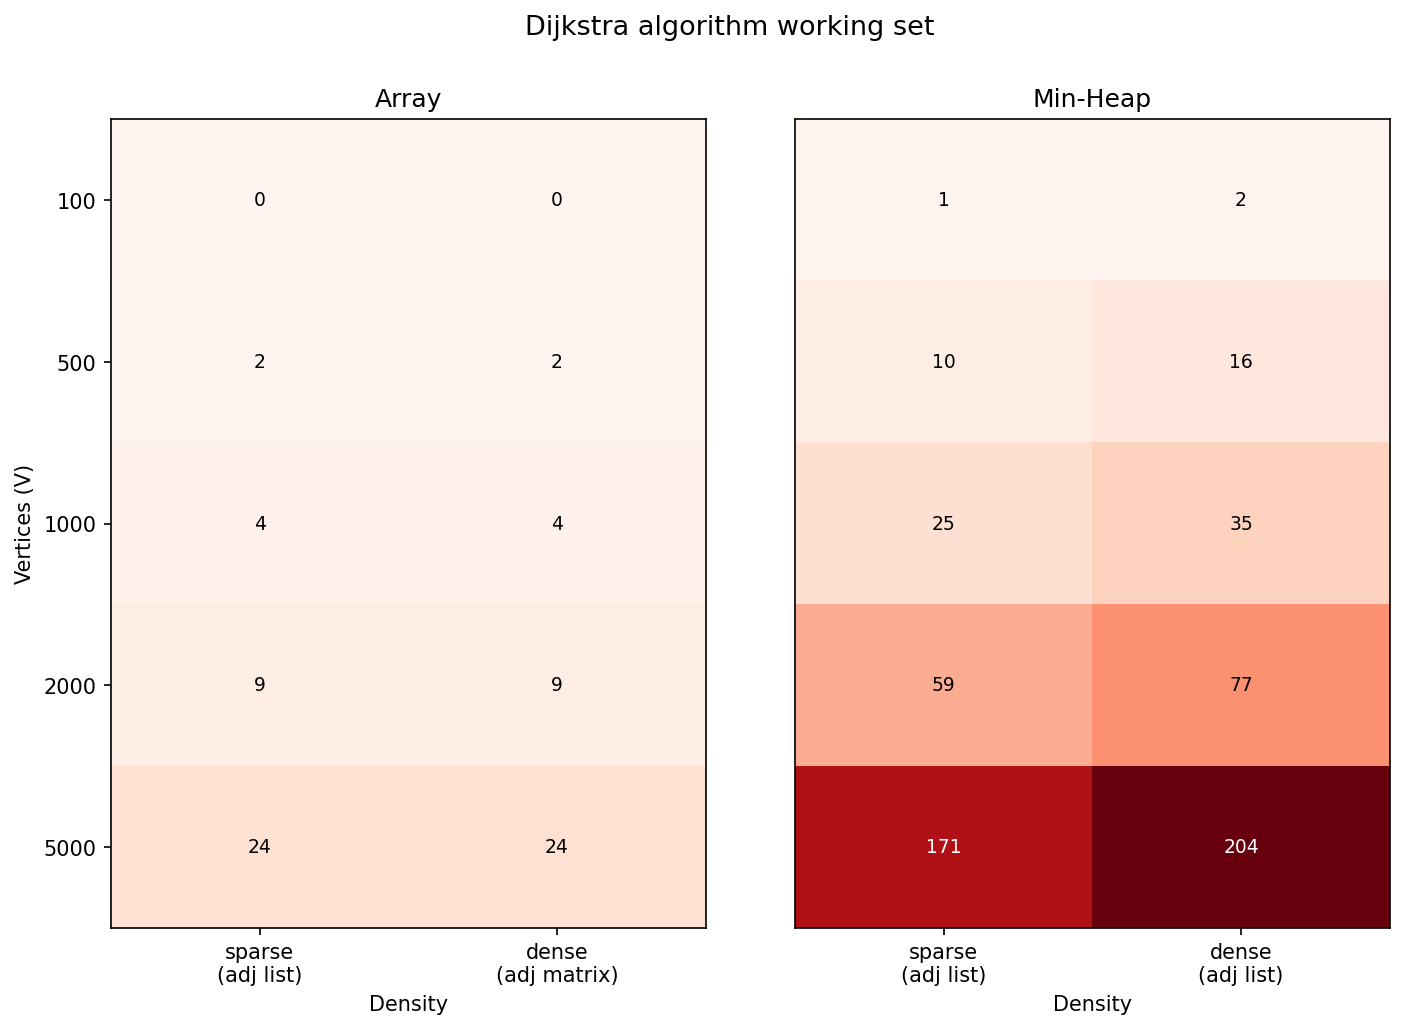
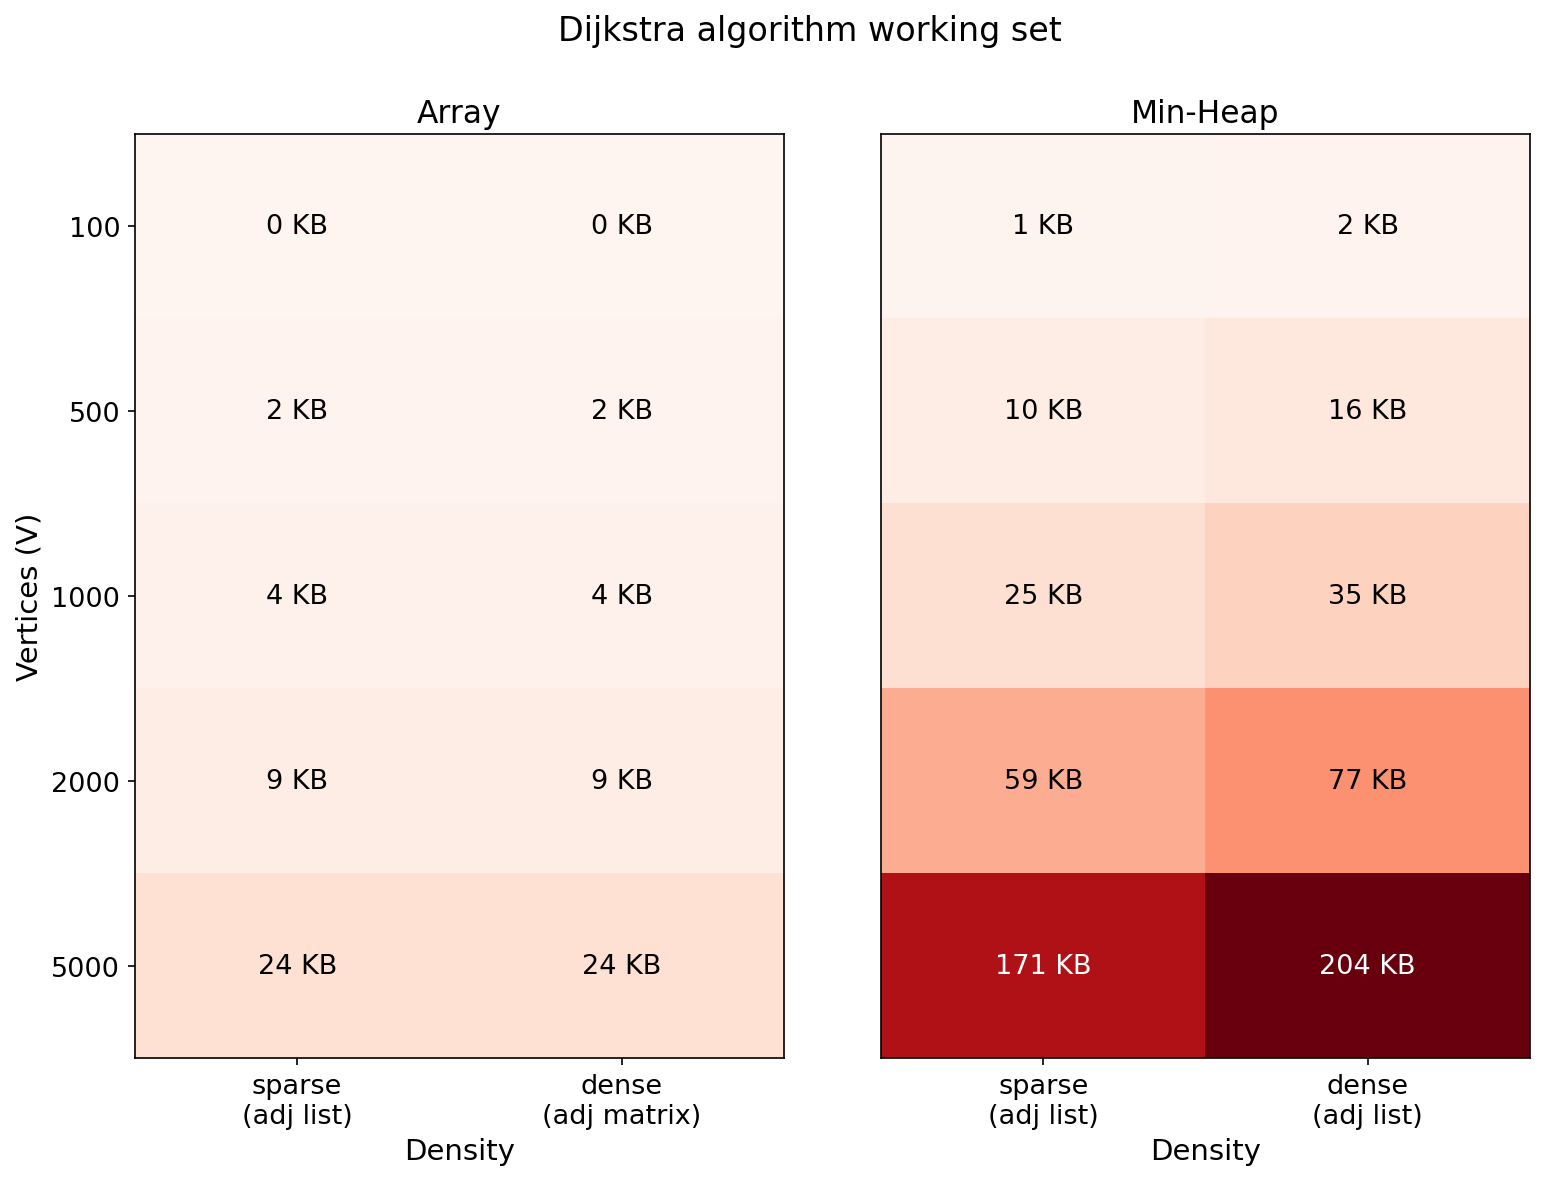
update gitignore:

diff --git a/src/figures/generate_heatmaps.py b/src/figures/generate_heatmaps.py
@@ -43,7 +43,8 @@ def pivot_mixed(df: pd.DataFrame, impl_by_density: dict, value_col: str) -> pd.D
 
 
 def draw_heatmap(ax, data: pd.DataFrame, title: str, vmin: float, vmax: float,
-                 fmt: str, cmap: str, xtick_labels: list, hide_y: bool = False):
+                 fmt: str, cmap: str, xtick_labels: list, unit: str = "",
+                 hide_y: bool = False):
     im = ax.imshow(
         data.values,
         aspect="auto",
@@ -53,32 +54,33 @@ def draw_heatmap(ax, data: pd.DataFrame, title: str, vmin: float, vmax: float,
         origin="upper",
     )
     ax.set_xticks(range(len(DENSITY_ORDER)))
-    ax.set_xticklabels(xtick_labels)
+    ax.set_xticklabels(xtick_labels, fontsize=13)
     if hide_y:
         ax.set_yticks([])
     else:
         ax.set_yticks(range(len(V_ORDER)))
-        ax.set_yticklabels(V_ORDER)
-        ax.set_ylabel("Vertices (V)")
-    ax.set_xlabel("Density")
-    ax.set_title(title)
+        ax.set_yticklabels(V_ORDER, fontsize=13)
+        ax.set_ylabel("Vertices (V)", fontsize=14)
+    ax.set_xlabel("Density", fontsize=14)
+    ax.set_title(title, fontsize=15)
 
     # Sequential cmaps (Blues, Reds): high values = dark cells → white text reads better.
     midpoint = (vmin + vmax) / 2
     for i in range(data.shape[0]):
         for j in range(data.shape[1]):
             val = data.values[i, j]
+            label = format(val, fmt) + (f" {unit}" if unit else "")
             ax.text(
                 j, i,
-                format(val, fmt),
+                label,
                 ha="center", va="center",
                 color="white" if val > midpoint else "black",
-                fontsize=9,
+                fontsize=13,
             )
     return im
 
 
-def make_figure(df, value_col, fmt, suptitle, out_path, cmap):
+def make_figure(df, value_col, fmt, suptitle, out_path, cmap, unit=""):
     array_table = pivot_mixed(df, ARRAY_IMPL_BY_DENSITY, value_col)
     heap_table = pivot_mixed(df, HEAP_IMPL_BY_DENSITY, value_col)
 
@@ -87,13 +89,14 @@ def make_figure(df, value_col, fmt, suptitle, out_path, cmap):
     if vmin == vmax:  # avoid degenerate color scale when all values are equal
         vmax = vmin + 1.0
 
-    fig, axes = plt.subplots(1, 2, figsize=(11, 7), gridspec_kw={"wspace": 0.15})
+    fig, axes = plt.subplots(1, 2, figsize=(12, 8), gridspec_kw={"wspace": 0.15})
     draw_heatmap(axes[0], array_table, "Array",
-                 vmin, vmax, fmt, cmap, xtick_labels=ARRAY_XTICK_LABELS)
+                 vmin, vmax, fmt, cmap, xtick_labels=ARRAY_XTICK_LABELS, unit=unit)
     draw_heatmap(axes[1], heap_table, "Min-Heap",
-                 vmin, vmax, fmt, cmap, xtick_labels=HEAP_XTICK_LABELS, hide_y=True)
+                 vmin, vmax, fmt, cmap, xtick_labels=HEAP_XTICK_LABELS, unit=unit,
+                 hide_y=True)
 
-    fig.suptitle(suptitle, fontsize=13)
+    fig.suptitle(suptitle, fontsize=16)
     fig.savefig(out_path, dpi=150, bbox_inches="tight")
     plt.close(fig)
     print(f"wrote {out_path}")
@@ -109,6 +112,7 @@ def main():
         suptitle="Dijkstra average runtime over 5 trials",
         out_path=HERE / "runtime_heatmap.png",
         cmap="Blues",
+        unit="us",
     )
 
     make_figure(
@@ -118,6 +122,7 @@ def main():
         suptitle="Dijkstra total memory (algorithm + graph storage)",
         out_path=HERE / "memory_heatmap.png",
         cmap="Reds",
+        unit="KB",
     )
 
     make_figure(
@@ -127,6 +132,7 @@ def main():
         suptitle="Dijkstra algorithm working set",
         out_path=HERE / "memory_heatmap_algorithm.png",
         cmap="Reds",
+        unit="KB",
     )
 
     make_figure(
@@ -136,6 +142,7 @@ def main():
         suptitle="Dijkstra graph storage",
         out_path=HERE / "memory_heatmap_datastructure.png",
         cmap="Reds",
+        unit="KB",
     )
 
 
